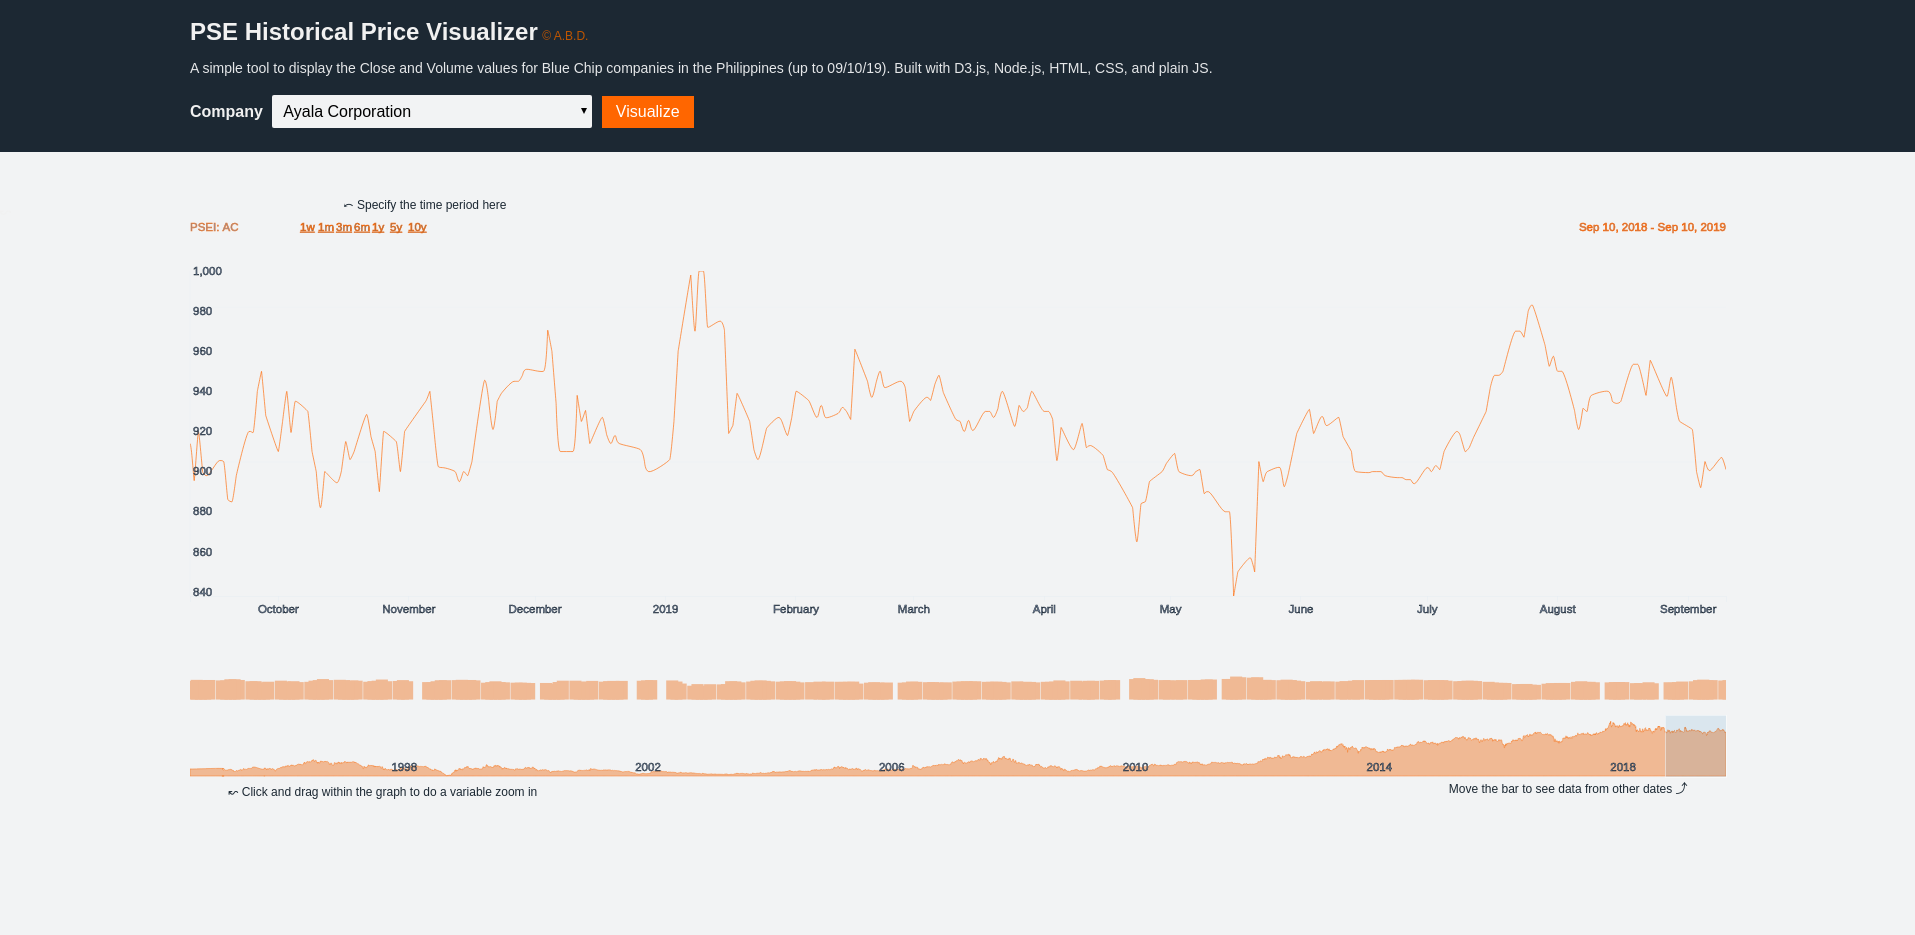
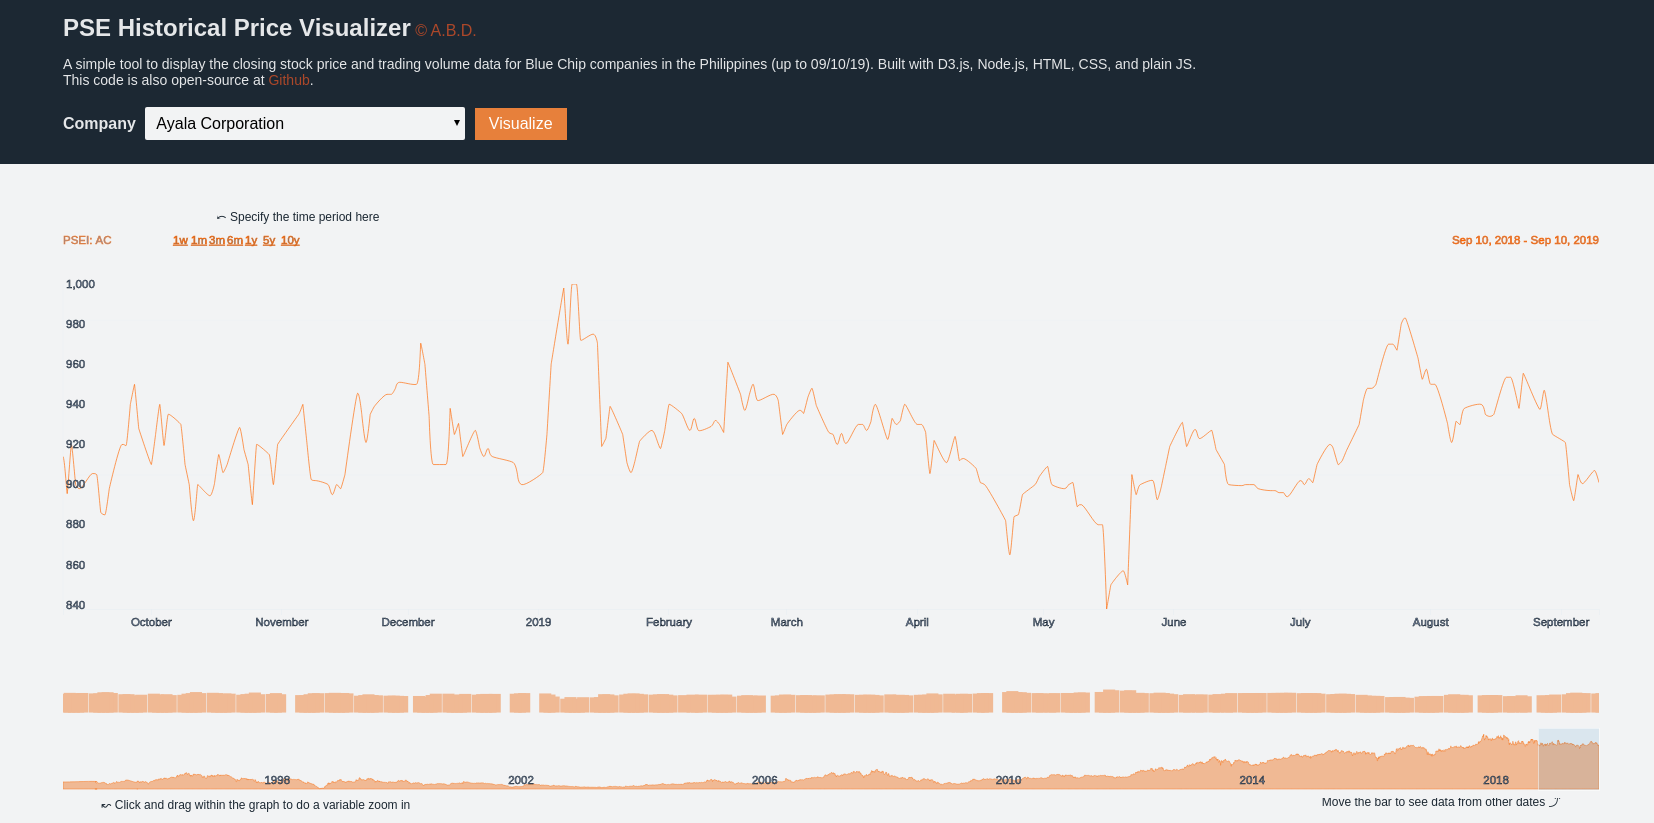
Update site details

diff --git a/src/index.html b/src/index.html
@@ -21,7 +21,7 @@
 			margin: 5px;
 		} 
 		.button {
-			background-color: #ff6600;
+			background-color: #e7803b;
 			border: none;
 			color: white;
 			padding: 7px 14px;
@@ -29,6 +29,9 @@
 			text-decoration: none;
 			display: inline-block;
 			font-size: 1em;
+		}
+		.button:hover{
+			background-color: #8f381d;
 		}
 		.area {
 			stroke:#f5741d;
@@ -60,16 +63,25 @@
 			grid-template-columns: auto auto auto;
 			padding: 10px;
 		}
+		a{
+			text-decoration: none;
+			color: #ac482a;
+			font-size: 1em;
+		}
+		a:hover{
+			color: #e7803b;
+		}
 	</style>
 	</head>
 
 	<body style="background-color:#F2F3F4; margin: 0;color: #1C2833; font-family: Arial, Helvetica, sans-serif;">
 	<div class="container" style="background-color:#1C2833 ">
 		<div  style="margin: 0; padding: 1% 10%;color:#E5E7E9;"">
-		<h2 style="display: inline;">PSE Historical Price Visualizer</h2> <a href="https://github.com/amielle" style="text-decoration: none; color: rgb(192, 86, 0); font-size: 12px;">&copy; A.B.D.</a>
+		<h2 style="display: inline;">PSE Historical Price Visualizer</h2> <a href="https://github.com/amielle">&copy; A.B.D.</a>
 		
 		<p style="font-size:14px;">A simple tool to display the closing stock price and trading volume data for Blue Chip companies 
-			in the Philippines (up to 09/10/19). Built with D3.js, Node.js, HTML, CSS, and plain JS.</p>	
+			in the Philippines (up to 09/10/19). Built with D3.js, Node.js, HTML, CSS, and plain JS.<br/>
+			This code is also open-source at <a href="https://github.com/amielle/PSE-Historical-Price-Visualizer">Github</a>.</p>	
 		<label for="company" style="font-weight: 700;font-size: 1em;">Company</label>
 		<select id="company">
 				<option value="AC">Ayala Corporation</option>
